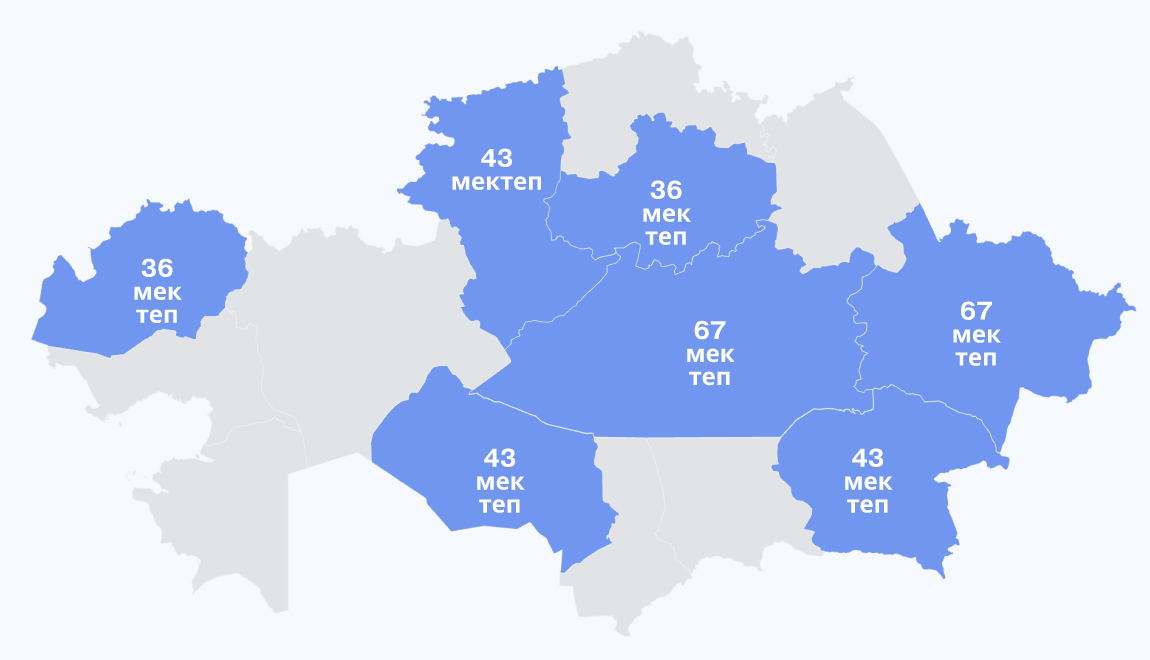
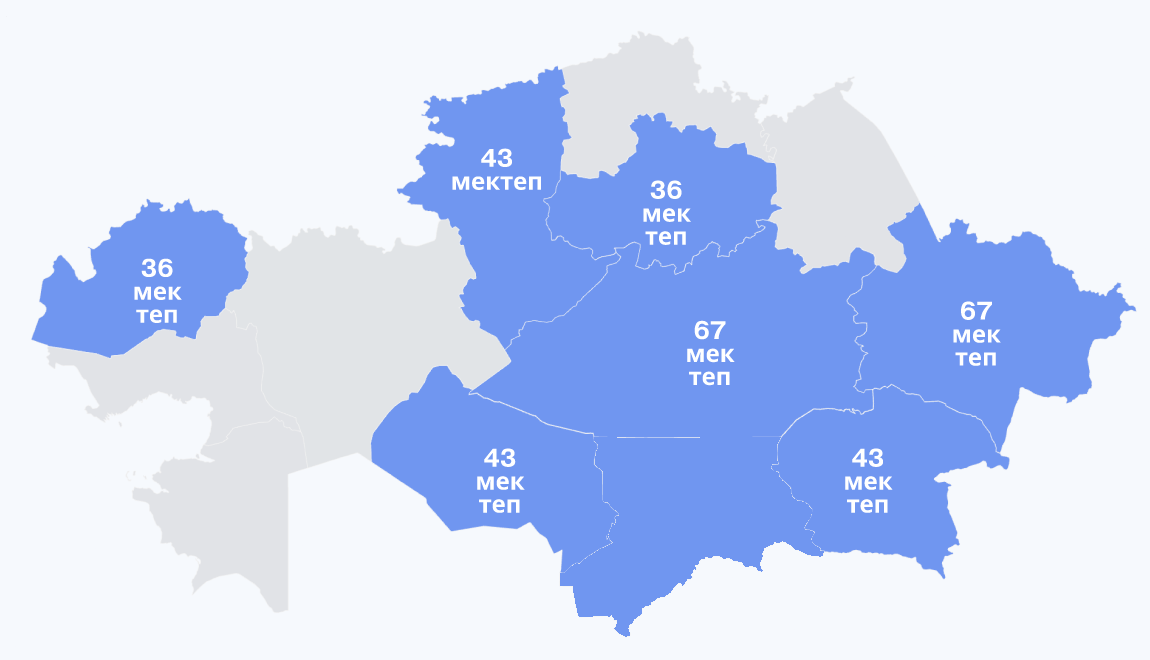
improved map

Changed region(s): [[0.487, 0.6364, 0.7304, 0.9697]]

diff --git a/map.js b/map.js
@@ -77,7 +77,7 @@
     },
     {
       id: 'turkistan', kk: 'Түркістан облысы', en: 'Turkistan Region', total: 43,
-      active: true,
+      noPin: true,
       cx: 0.443, cy: 0.719,
       poly: '516,324 521,326 614,436 593,437 597,445 593,464 601,471 602,500 618,513 614,516 614,523 611,523 606,535 611,542 580,562 573,563 564,572 561,572 562,550 553,552 547,538 531,522 517,528 480,525 451,530 430,507 423,495 374,463 371,457 371,440 375,430 396,405 408,400 411,393 419,391 432,368 447,366 463,387 473,390 511,361 498,338 480,327',
       districts: [
@@ -91,8 +91,8 @@
     },
     {
       id: 'jambyl', kk: 'Жамбыл облысы', en: 'Jambyl Region', total: 32,
-      active: true,
-      cx: 0.62, cy: 0.79,
+      noPin: true,
+      cx: 0.601, cy: 0.81,
       poly: '614,436 757,436 758,435 781,437 779,463 771,467 779,472 780,477 791,487 792,495 796,499 806,502 812,514 812,542 820,549 848,552 852,576 818,604 772,628 716,642 660,635 612,614 580,592 561,572 564,572 573,563 580,562 611,542 606,535 611,523 614,523 614,516 618,513 602,500 601,471 593,464 597,445 593,437',
       districts: [
         { kk: 'Байзақ', en: 'Baizak', n: 6 },
@@ -141,18 +141,19 @@
 
     /* build hotspots + pins */
     REGIONS.forEach(function (r) {
-      var cls = 'hot' + (r.active ? ' active' : '');
-      var pg = el('polygon', { points: r.poly, 'class': cls, 'data-region': r.id });
+      var pg = el('polygon', { points: r.poly, 'class': 'hot', 'data-region': r.id });
       svg.appendChild(pg);
     });
     REGIONS.forEach(function (r) {
       var px = r.cx * VB_W, py = r.cy * VB_H;
       var p1 = el('circle', { cx: px, cy: py, r: 10, 'class': 'pulse', 'data-pulse': r.id });
       var p2 = el('circle', { cx: px, cy: py, r: 10, 'class': 'pulse pulse2', 'data-pulse': r.id });
-      var pin = el('circle', { cx: px, cy: py, r: 7, 'class': 'pin', 'data-region': r.id });
       svg.appendChild(p1);
       svg.appendChild(p2);
-      svg.appendChild(pin);
+      if (!r.noPin) {
+        var pin = el('circle', { cx: px, cy: py, r: 7, 'class': 'pin', 'data-region': r.id });
+        svg.appendChild(pin);
+      }
     });
 
     /* hover → pulse rings */

diff --git a/steppe.css b/steppe.css
@@ -280,8 +280,6 @@ section.block { position: relative; z-index: 2; padding: 72px 0; }
 .map-hot polygon.hot { fill: transparent; stroke: transparent; stroke-width: 0; cursor: pointer; }
 .map-hot polygon.hot:hover { fill: transparent; }
 .map-hot polygon.hot.sel { fill: transparent; }
-.map-hot polygon.hot.active { fill: rgba(242,164,19,0.42); }
-.map-hot polygon.hot.active:hover { fill: rgba(242,164,19,0.42); }
 .map-hot .pin { fill: #fff; stroke: var(--accent-deep); stroke-width: 3; cursor: pointer; transition: opacity .3s; }
 .map-hot .pulse { fill: var(--accent); opacity: 0; transform-box: fill-box; transform-origin: center; pointer-events: none; animation: none; }
 .map-hot .pulse.hovered { animation: mappulse 1.6s ease-out infinite; }